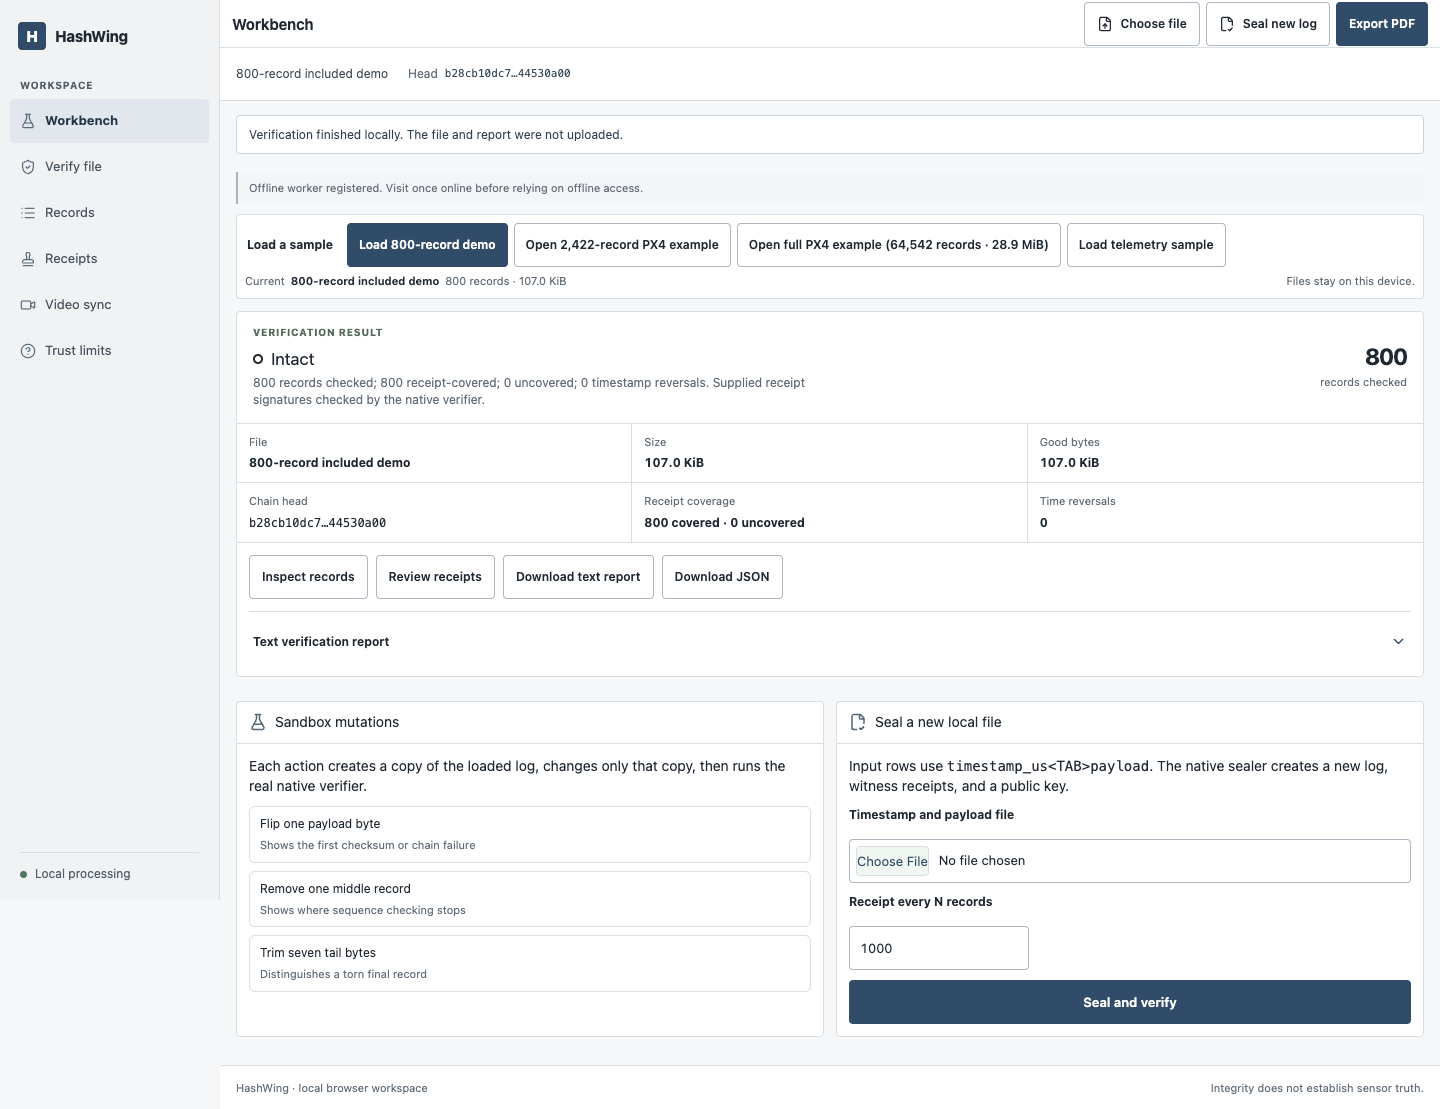
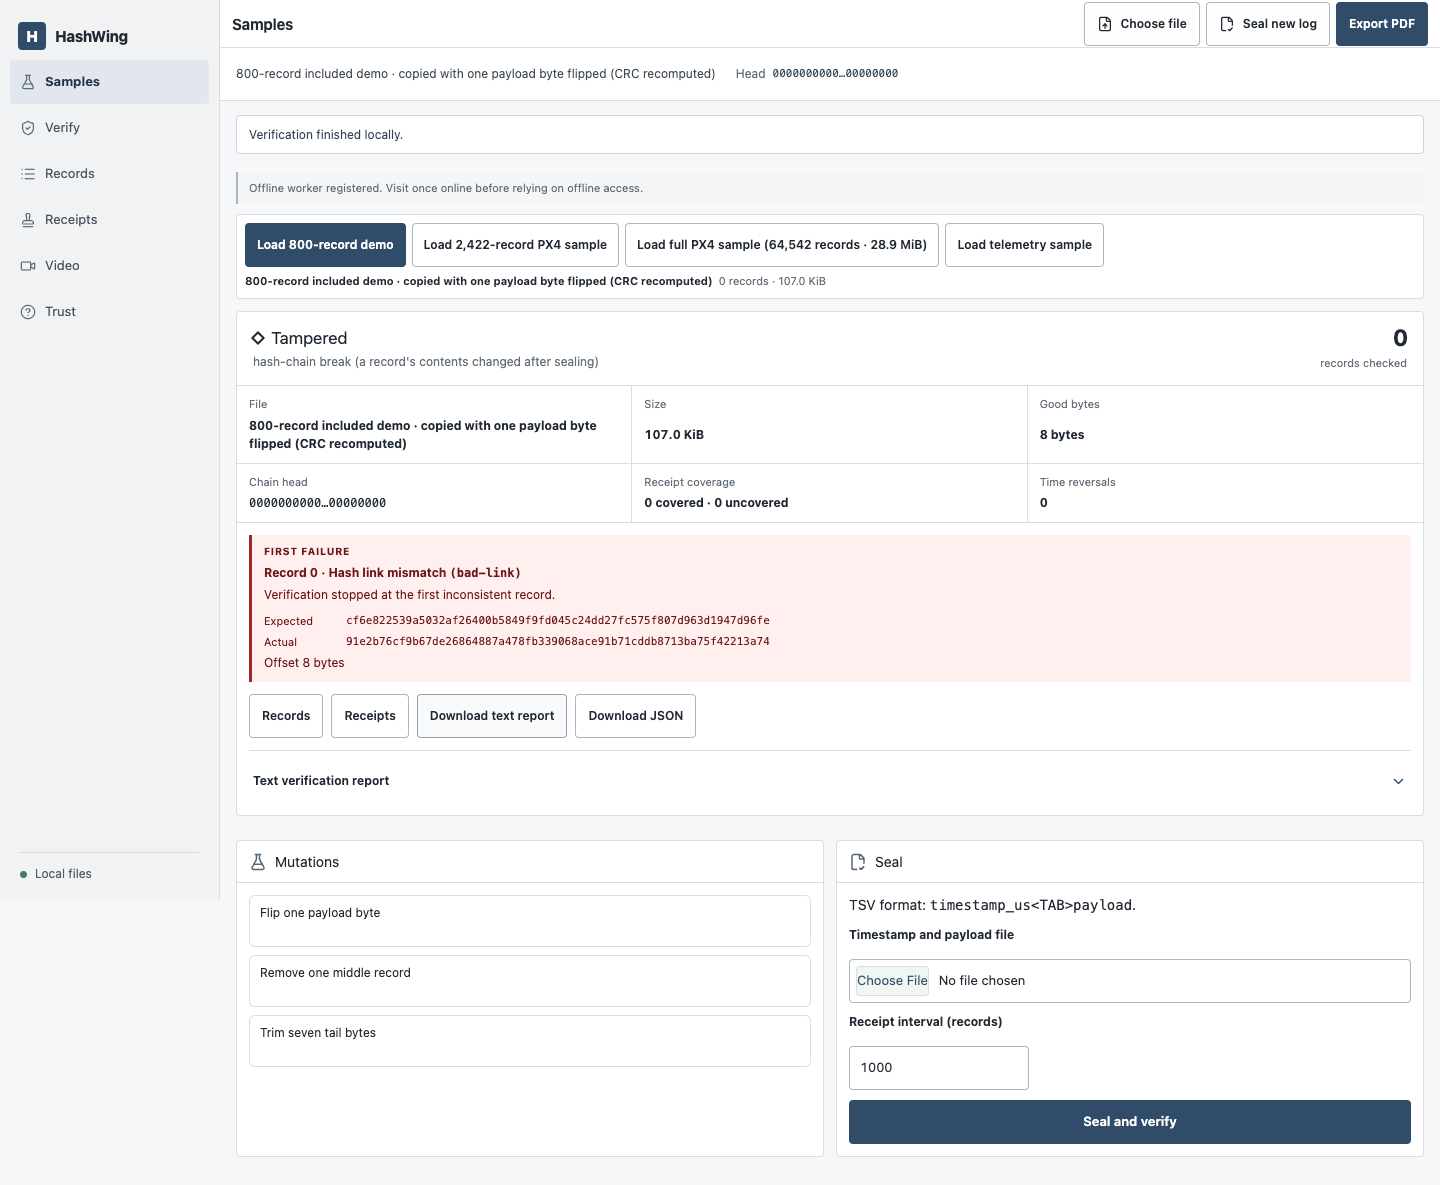
Refresh onboarding labels and current interface screenshot

diff --git a/README.md b/README.md
@@ -68,10 +68,10 @@ cannot change is the receipts someone else already holds.
 log immediately. Change a copy with a payload byte flip, middle-record deletion, or tail truncation; inspect the
 first failure and its record, then download a text or JSON summary. No account or upload is needed.
 
-![HashWing workbench showing the checked sample, receipt coverage and local sandbox actions](docs/screenshots/console-1440.png)
+![HashWing showing a detected hash-chain break and local mutation and sealing controls](docs/screenshots/console-1440.png)
 
 The React/Tailwind console calls the same C++/OpenSSL core compiled to WebAssembly. It also checks its record index
-against the existing independent JavaScript reader. Verify, Records, Receipts, Video sync and Trust help have separate
+against the existing independent JavaScript reader. Verify, Records, Receipts, Video and Trust have separate
 addresses. The optional full PX4 example contains **64,542 converted records and 13 receipts** and downloads
 28.9 MiB only when requested; [provenance](docs/samples/px4-full-provenance.json) records its source and transforms.
 The bundled key verifies this demo artifact, not the original flight identity or events before sealing.
@@ -103,7 +103,7 @@ after installing Playwright Chromium. The root URL and compatible old sample/rec
 single console; the independent JavaScript reader remains a test oracle.
 
 Local [FFmpeg video tools](tools/video/README.md) inspect actual codecs and convert a bounded local video to a new
-H.264/AAC MP4. The browser Video sync screen checks playback metadata, aligns a selected record with a manual offset, and warns when it cannot identify or play a codec;
+H.264/AAC MP4. The browser Video screen checks playback metadata, aligns a selected record with a manual offset, and warns when it cannot identify or play a codec;
 it does not upload or convert media. The [AVFoundation helper](native/README-video.md) was compiled and its local-URL
 guards exercised on macOS; there is no Xcode/iOS app target in this repository.
 
@@ -116,7 +116,7 @@ collection, or email waitlist is active.
 
 **[Open HashWing](https://anirudh763.github.io/flightseal/)**: choose a sealed log and optionally its receipts and
 an independently trusted public key. The canonical light console runs the C++/OpenSSL verifier locally in a worker;
-files are never uploaded. Workbench, Verify, Records, Receipts, Video sync and Trust limits each have an address.
+files are never uploaded. Samples, Verify, Records, Receipts, Video and Trust each have an address.
 After a successful online visit, the console and small examples can reload offline. The full PX4 download is opt-in.
 
 The 800-record example is synthetic. The 2,422-record and 64,542-record examples are selected/converted public PX4
